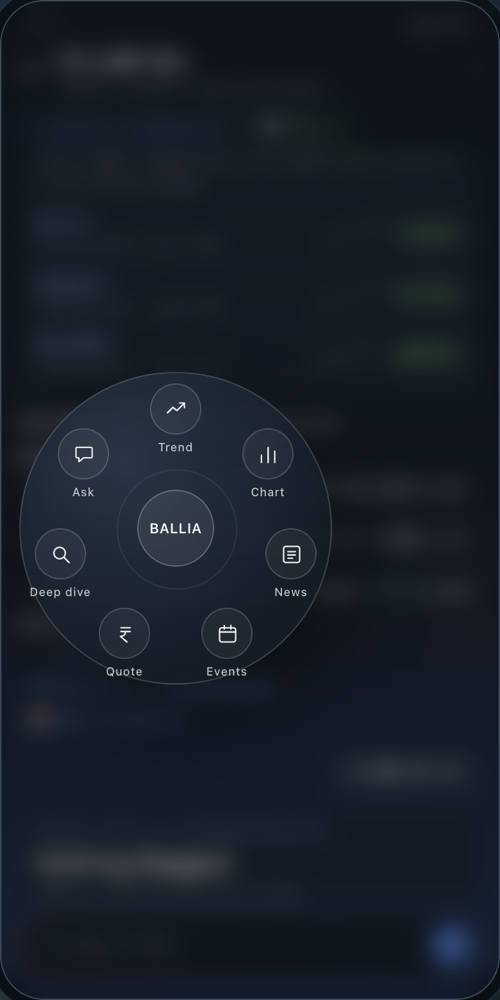
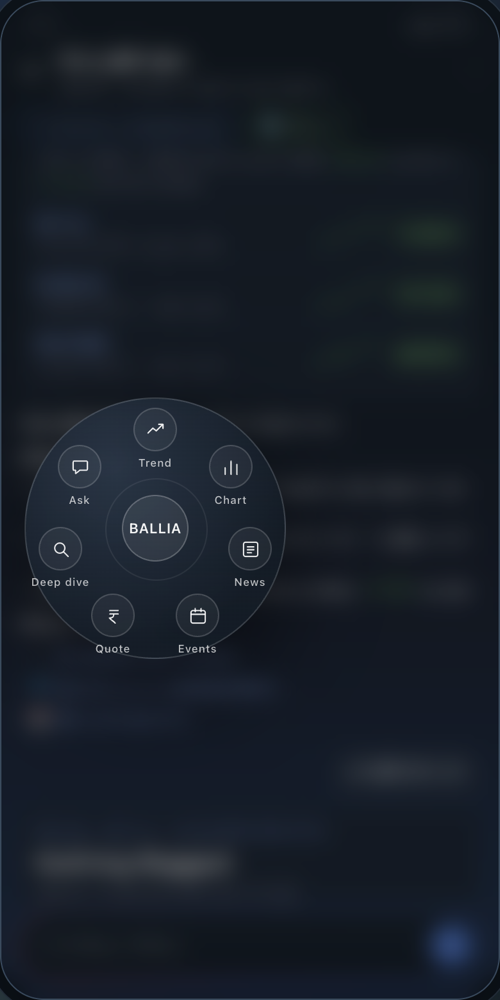
Khayali Pulao 0.9.2 — the ticker wheel in every reply, compact design
- Tickers.wire runs over every card as it's added, so calendar, IPO, holdings, web and terminal
  cards all open the wheel; chart labels too, via a refused kp://ticker/ navigation (no JS bridge)
- Labels must be a stock the phone knows; heading words never trigger it (tested)
- More compact wheel; website replay and screenshot match

diff --git a/app/src/main/kotlin/com/khayali/pulao/ai/TickerWheel.kt b/app/src/main/kotlin/com/khayali/pulao/ai/TickerWheel.kt
@@ -33,7 +33,7 @@ class TickerWheel(
     touchX: Float, touchY: Float, private val onPick: (String) -> Unit, private val onClose: () -> Unit,
 ) : FrameLayout(ctx) {
 
-    private val radius = k.dpf(104)
+    private val radius = k.dpf(86)
     private var cx = touchX; private var cy = touchY
     private val white = 0xFFFFFFFF.toInt()
 
@@ -45,21 +45,21 @@ class TickerWheel(
             val r = width / 2f
             fill.shader = RadialGradient(r * 0.7f, r * 0.55f, r * 1.4f, intArrayOf(Pal.alpha(0xFF2A3647.toInt(), 0.92f), Pal.alpha(0xFF141C26.toInt(), 0.94f)), null, Shader.TileMode.CLAMP)
             c.drawCircle(r, r, r - k.dpf(1), fill); c.drawCircle(r, r, r - k.dpf(1), edge)
-            c.drawCircle(r, r, k.dpf(46), inner)
+            c.drawCircle(r, r, k.dpf(38), inner)
         }
     }
     private val centre = k.column().apply {
         gravity = Gravity.CENTER
         background = k.rounded(Pal.alpha(white, 0.08f), 999f, Pal.alpha(white, 0.22f))
-        addView(k.text(symbol, if (symbol.length > 8) 10.5f else 12f, Pal.alpha(white, 0.95f), 600).apply { gravity = Gravity.CENTER; maxLines = 1; letterSpacing = 0.02f })
+        addView(k.text(symbol, if (symbol.length > 8) 9.5f else 11f, Pal.alpha(white, 0.95f), 600).apply { gravity = Gravity.CENTER; maxLines = 1; letterSpacing = 0.02f })
         setOnClickListener { close() }
         contentDescription = "Close $symbol actions"
     }
     private val buttons = items.map { (icon, label, cmd) ->
         k.column().apply {
             gravity = Gravity.CENTER_HORIZONTAL
-            addView(LineIcon(ctx, icon, k).apply { background = k.rounded(Pal.alpha(white, 0.05f), 999f, Pal.alpha(white, 0.16f)) }, k.lp(k.dp(44), k.dp(44)))
-            addView(k.text(label, 10f, Pal.alpha(white, 0.72f), 500).apply { gravity = Gravity.CENTER; setPadding(0, k.dp(4), 0, 0); maxLines = 1; letterSpacing = 0.04f }, k.lp(k.dp(72), WRAP_CONTENT))
+            addView(LineIcon(ctx, icon, k).apply { background = k.rounded(Pal.alpha(white, 0.05f), 999f, Pal.alpha(white, 0.16f)) }, k.lp(k.dp(38), k.dp(38)))
+            addView(k.text(label, 9.5f, Pal.alpha(white, 0.7f), 500).apply { gravity = Gravity.CENTER; setPadding(0, k.dp(3), 0, 0); maxLines = 1; letterSpacing = 0.04f }, k.lp(k.dp(64), WRAP_CONTENT))
             background = k.press(null, 14f)
             contentDescription = "$label for $symbol"
             setOnClickListener { performHapticFeedback(HapticFeedbackConstants.CONTEXT_CLICK); close { onPick(cmd) } }
@@ -69,23 +69,23 @@ class TickerWheel(
     init {
         setBackgroundColor(Pal.alpha(0xFF000000.toInt(), 0.38f))
         isClickable = true; setOnClickListener { close() }
-        val d = (radius * 2 + k.dpf(76)).toInt()
+        val d = (radius * 2 + k.dpf(66)).toInt()
         addView(disc, LayoutParams(d, d))
-        addView(centre, LayoutParams(k.dp(62), k.dp(62)))
-        buttons.forEach { addView(it, LayoutParams(k.dp(72), WRAP_CONTENT)) }
+        addView(centre, LayoutParams(k.dp(54), k.dp(54)))
+        buttons.forEach { addView(it, LayoutParams(k.dp(64), WRAP_CONTENT)) }
         alpha = 0f
     }
 
     override fun onLayout(changed: Boolean, l: Int, t: Int, r: Int, b: Int) {
         super.onLayout(changed, l, t, r, b)
-        val m = radius + k.dpf(42)
+        val m = radius + k.dpf(36)
         cx = cx.coerceIn(m, (width - m).coerceAtLeast(m)); cy = cy.coerceIn(m + k.dpf(16), (height - m).coerceAtLeast(m + k.dpf(16)))
         fun place(v: View, x: Float, y: Float) = v.layout((x - v.measuredWidth / 2f).toInt(), (y - v.measuredHeight / 2f).toInt(), (x + v.measuredWidth / 2f).toInt(), (y + v.measuredHeight / 2f).toInt())
         place(disc, cx, cy); place(centre, cx, cy)
         buttons.forEachIndexed { i, v ->
             val a = Math.toRadians(-90.0 + i * 360.0 / buttons.size)
             // the icon (not the label) sits on the ring
-            val x = cx + radius * cos(a).toFloat(); val y = cy + radius * sin(a).toFloat() + (v.measuredHeight / 2f - k.dpf(22))
+            val x = cx + radius * cos(a).toFloat(); val y = cy + radius * sin(a).toFloat() + (v.measuredHeight / 2f - k.dpf(19))
             place(v, x, y)
         }
     }
@@ -125,7 +125,7 @@ class TickerWheel(
         }
         private val t = Paint(Paint.ANTI_ALIAS_FLAG).apply { color = Pal.alpha(0xFFFFFFFF.toInt(), 0.9f); textAlign = Paint.Align.CENTER; typeface = Typeface.create("sans-serif-light", Typeface.NORMAL) }
         override fun onDraw(c: Canvas) {
-            val s = k.dpf(18); val ox = (width - s) / 2f; val oy = (height - s) / 2f
+            val s = k.dpf(16); val ox = (width - s) / 2f; val oy = (height - s) / 2f
             fun x(f: Float) = ox + f * s
             fun y(f: Float) = oy + f * s
             val path = Path()

diff --git a/app/src/main/kotlin/com/khayali/pulao/ai/Tickers.kt b/app/src/main/kotlin/com/khayali/pulao/ai/Tickers.kt
@@ -24,6 +24,18 @@ object Tickers {
         "UK", "EU", "Q1", "Q2", "Q3", "Q4", "EBITDA", "NOT", "NIFTY", "SENSEX", "MCX", "STT", "LTCG", "STCG", "TDS", "GST", "PPF", "EPF", "NPS", "KYC", "API", "MCP",
         "SMA", "RSI", "MACD", "VWAP", "DMA", "OPM", "PEG", "TTM", "FY", "H1", "H2", "NA", "CEO", "CFO", "MD", "BANK", "AUTO", "PHARMA", "FMCG", "METAL", "REALTY", "MEDIA", "ENERGY")
 
+    /** All-caps words cards use as labels; never tickers. */
+    private val WORDS = setOf("TODAY", "TAKEAWAY", "PLAN", "SETUP", "TIMING", "PRIVACY", "STEPS", "WHY", "HOW", "NEW", "ALL", "OTHERS", "MARKET", "STOCK", "STOCKS",
+        "VOLATILITY", "RESULTS", "DIVIDEND", "BONUS", "SPLIT", "BUYBACK", "HOLIDAY", "AGM", "OPEN", "CLOSED", "UPCOMING", "LISTED", "LISTING", "BIDDING", "TOTAL",
+        "HOLDING", "HOLDINGS", "INVESTED", "CURRENT", "PNL", "DAY", "WEEK", "MONTH", "YEAR", "HIGH", "LOW", "LTP", "QTY", "AVG", "BUY", "SELL", "GAINERS", "LOSERS", "SECTORS", "SECTOR")
+
+    /** A label that is exactly a stock the phone knows (or, before anything is known, has a ticker's shape and isn't a heading word). */
+    fun isKnown(s: String): Boolean {
+        val t = s.trim().removePrefix("★").trim().removePrefix("@")
+        if (!SHAPE.matches(t) || t in STOP || t in WORDS) return false
+        return known.isEmpty() || t in known
+    }
+
     /** Does this field (a row title, a mover's symbol) name a stock? Structured fields need only the right shape. */
     fun isSymbol(s: String, structured: Boolean = true): Boolean {
         val t = s.trim().removePrefix("★").trim().removePrefix("@")
@@ -55,6 +67,29 @@ object Tickers {
     private fun span(sym: String) = object : ClickableSpan() {
         override fun onClick(widget: View) { onTap?.invoke(sym) }
         override fun updateDrawState(ds: TextPaint) { ds.color = com.khayali.pulao.Pal.BLUE; ds.isUnderlineText = false; ds.isFakeBoldText = true }
+    }
+
+    /**
+     * Wires every ticker in a finished card — whatever built it (calendar, IPOs, holdings, web results, terminal
+     * cards). A text that is just a symbol makes its row a tap target; tickers inside sentences become tap spans.
+     * Rows that already do something on tap keep it.
+     */
+    fun wire(root: View) {
+        fun clickableAncestor(v: View): Boolean { var p: android.view.ViewParent? = v.parent
+            while (p is View && p !== root.parent) { if (p.hasOnClickListeners()) return true; p = p.parent }; return false }
+        fun walk(v: View) {
+            if (v is android.view.ViewGroup) { for (i in 0 until v.childCount) walk(v.getChildAt(i)); return }
+            val tv = v as? android.widget.TextView ?: return
+            val text = tv.text?.toString()?.trim().orEmpty(); if (text.isEmpty()) return
+            if ((tv.text as? Spanned)?.getSpans(0, tv.text.length, ClickableSpan::class.java)?.isNotEmpty() == true) return
+            val bare = text.removePrefix("★").removePrefix("@").trim().substringBefore(' ').substringBefore('\n')
+            if (text.length <= 22 && isKnown(bare) && (text == bare || text.removePrefix("★").trim() == bare) && !tv.hasOnClickListeners() && !clickableAncestor(tv)) {
+                val row = (tv.parent as? View)?.takeIf { it !== root && !it.hasOnClickListeners() && (it.parent as? View)?.hasOnClickListeners() != true } ?: tv
+                attach(row, bare); return
+            }
+            if (!tv.hasOnClickListeners() && !clickableAncestor(tv)) apply(tv)
+        }
+        walk(root)
     }
 
     /** Makes a view open the symbol menu on tap and on long-press. */

diff --git a/docs/index.html b/docs/index.html
@@ -342,17 +342,17 @@
     .cd-sst { font-size: 11px; font-weight: 700; color: var(--dim); } .cd-sst.blue { color: #8fb0f7; } .cd-chk { color: var(--blue); }
     .cd-wheel { position: absolute; inset: 0; background: rgba(0,0,0,.38); -webkit-backdrop-filter: blur(9px); backdrop-filter: blur(9px); opacity: 0; pointer-events: none; transition: opacity .2s; z-index: 4; }
     .cd-wheel.on { opacity: 1; }
-    .cd-disc { position: absolute; width: 244px; height: 244px; margin: -122px 0 0 -122px; border-radius: 50%;
+    .cd-disc { position: absolute; width: 204px; height: 204px; margin: -102px 0 0 -102px; border-radius: 50%;
       background: radial-gradient(circle at 35% 28%, rgba(42,54,71,.92), rgba(20,28,38,.94) 70%); border: .75px solid rgba(255,255,255,.16);
       box-shadow: inset 0 0 0 76px transparent, 0 30px 70px rgba(0,0,0,.45); }
-    .cd-disc::after { content: ""; position: absolute; left: 50%; top: 50%; width: 92px; height: 92px; margin: -46px 0 0 -46px; border-radius: 50%; border: .75px solid rgba(255,255,255,.07); }
+    .cd-disc::after { content: ""; position: absolute; left: 50%; top: 50%; width: 78px; height: 78px; margin: -39px 0 0 -39px; border-radius: 50%; border: .75px solid rgba(255,255,255,.07); }
     .cd-wheel.on .cd-disc { animation: cddisc .26s cubic-bezier(.2,.8,.2,1) both; } @keyframes cddisc { from { transform: scale(.92); opacity: 0; } }
-    .cd-hub { position: absolute; width: 60px; height: 60px; margin: -30px 0 0 -30px; border-radius: 50%; background: rgba(255,255,255,.08); border: .75px solid rgba(255,255,255,.22);
+    .cd-hub { position: absolute; width: 52px; height: 52px; margin: -26px 0 0 -26px; border-radius: 50%; background: rgba(255,255,255,.08); border: .75px solid rgba(255,255,255,.22);
       display: grid; place-items: center; font-weight: 600; font-size: 11px; letter-spacing: .02em; color: rgba(255,255,255,.95); }
     .cd-wheel.on .cd-hub { animation: cdhub .24s .04s cubic-bezier(.2,.8,.2,1) both; } @keyframes cdhub { from { transform: scale(.85); opacity: 0; } }
-    .cd-spoke { position: absolute; width: 66px; margin: -21px 0 0 -33px; text-align: center; font-size: 9px; font-weight: 500; letter-spacing: .04em; color: rgba(255,255,255,.72); }
-    .cd-spoke b { display: grid; place-items: center; width: 40px; height: 40px; margin: 0 auto 3px; border-radius: 50%; background: rgba(255,255,255,.05); border: .75px solid rgba(255,255,255,.16); }
-    .cd-spoke svg { width: 17px; height: 17px; fill: none; stroke: rgba(255,255,255,.9); stroke-width: 1.6; stroke-linecap: round; stroke-linejoin: round; }
+    .cd-spoke { position: absolute; width: 60px; margin: -18px 0 0 -30px; text-align: center; font-size: 8.5px; font-weight: 500; letter-spacing: .04em; color: rgba(255,255,255,.72); }
+    .cd-spoke b { display: grid; place-items: center; width: 34px; height: 34px; margin: 0 auto 3px; border-radius: 50%; background: rgba(255,255,255,.05); border: .75px solid rgba(255,255,255,.16); }
+    .cd-spoke svg { width: 15px; height: 15px; fill: none; stroke: rgba(255,255,255,.9); stroke-width: 1.6; stroke-linecap: round; stroke-linejoin: round; }
     .cd-wheel.on .cd-spoke { animation: cdspoke .26s cubic-bezier(.2,.8,.2,1) both; }
     @keyframes cdspoke { from { transform: translate(var(--dx), var(--dy)) scale(.85); opacity: 0; } }
     .cd-foot { font-size: 11px; color: var(--dim); padding: 0 4px; } .cd-foot u { text-decoration: none; color: #8fb0f7; }

diff --git a/app/src/main/kotlin/com/khayali/pulao/ai/VizView.kt b/app/src/main/kotlin/com/khayali/pulao/ai/VizView.kt
@@ -35,7 +35,12 @@ class VizView(ctx: Context, type: String, data: Any, heightDp: Int) : WebView(ct
             override fun shouldInterceptRequest(view: WebView, req: WebResourceRequest): WebResourceResponse? =
                 if (req.url.toString().startsWith("file:///android_asset/viz/")) null
                 else WebResourceResponse("text/plain", "utf-8", null)          // refuse everything else
-            override fun shouldOverrideUrlLoading(view: WebView, req: WebResourceRequest) = true
+            override fun shouldOverrideUrlLoading(view: WebView, req: WebResourceRequest): Boolean {
+                // every navigation is refused; a tapped stock label in a chart asks for kp://ticker/SYMBOL — open its wheel
+                val u = req.url
+                if (u.scheme == "kp" && u.host == "ticker") u.lastPathSegment?.uppercase()?.takeIf { Tickers.isKnown(it) }?.let { sym -> view.post { Tickers.onTap?.invoke(sym) } }
+                return true
+            }
             override fun onPageFinished(view: WebView, url: String) { view.evaluateJavascript("render($spec)", null) }
         }
         loadUrl("file:///android_asset/viz/viz.html")

diff --git a/docs/chat.js b/docs/chat.js
@@ -235,7 +235,7 @@
           Quote: '<path d="M7 5h10M7 9h10M12 9c0 3-2 5-5 5h-.5l7 6"/>', "Deep dive": '<circle cx="10" cy="10" r="6"/><path d="M14.5 14.5l5.5 5.5"/>',
           Ask: '<path d="M4 4h15a1 1 0 0 1 1 1v9a1 1 0 0 1-1 1h-8l-5 4v-4H4a1 1 0 0 1-1-1V5a1 1 0 0 1 1-1z"/>' };
         var acts = ["Trend", "Chart", "News", "Events", "Quote", "Deep dive", "Ask"].map(function (n) { return ['<svg viewBox="0 0 23 23">' + I[n] + "</svg>", n]; });
-        var pr = phone.getBoundingClientRect(), tr = t.getBoundingClientRect(), R = 92;
+        var pr = phone.getBoundingClientRect(), tr = t.getBoundingClientRect(), R = 76;
         var cx = Math.min(Math.max(tr.left - pr.left + 30, R + 44), pr.width - R - 44), cy = Math.min(Math.max(tr.top - pr.top, R + 70), pr.height - R - 90);
         wheel.innerHTML = '<div class="cd-disc" style="left:' + cx + 'px;top:' + cy + 'px"></div><div class="cd-hub" style="left:' + cx + 'px;top:' + cy + 'px">BALLIA</div>' +
           acts.map(function (a, i) { var ang = (-90 + i * 360 / acts.length) * Math.PI / 180;

diff --git a/app/src/main/assets/viz/viz.html b/app/src/main/assets/viz/viz.html
@@ -22,6 +22,15 @@
 <div class="tip" id="tip"></div>
 <script src="d3.min.js"></script>
 <script>
+// A tap on a stock label in any chart opens that stock's wheel in the app (the app refuses the navigation and reads the symbol).
+document.addEventListener("click", function (e) {
+  var el = e.target; for (var i = 0; i < 3 && el; i++, el = el.parentNode) {
+    var t = (el.textContent || "").trim().replace(/^[★@]\s*/, "");
+    if (el.children && el.children.length > 2) break;
+    if (/^[A-Z][A-Z0-9&\-]{1,14}$/.test(t)) { location.href = "kp://ticker/" + encodeURIComponent(t); e.preventDefault(); return; }
+  }
+}, true);
+
 "use strict";
 // Everything here runs locally inside the app. No network: the WebView blocks all loads.
 const C = { text:"#fff", muted:"#9B9BAD", dim:"#6E7883", line:"#324050", blue:"#5282EB", green:"#67AD5B", red:"#CF5B52", saffron:"#FFB547", violet:"#8E7CF0", pink:"#FF6FA5" };

diff --git a/app/src/test/kotlin/com/khayali/pulao/ActionsTest.kt b/app/src/test/kotlin/com/khayali/pulao/ActionsTest.kt
@@ -36,7 +36,11 @@ class ActionsTest {
         assertFalse(Tickers.isSymbol("NSE")); assertTrue(Tickers.isSymbol("★ INFY")); assertFalse(Tickers.isSymbol("Low pe stocks"))
         val menu = Tickers.menu("INFY", web = false, market = true).map { it.second }
         assertTrue(menu.containsAll(listOf("/health INFY", "/chart INFY 1y", "/news INFY", "what's happening with INFY")))
+        // labels that are exactly a known stock open the wheel; heading words never do
+        assertTrue(Tickers.isKnown("INFY") && Tickers.isKnown("★ FIRSTCRY"))
+        assertFalse(Tickers.isKnown("TODAY") || Tickers.isKnown("TAKEAWAY") || Tickers.isKnown("HDFC") || Tickers.isKnown("NIFTY"))
         Tickers.known = emptySet()
+        assertTrue(Tickers.isKnown("ZEEL")); assertFalse(Tickers.isKnown("TIMING"))
     }
 
     @Test fun actionLinksParse() {

diff --git a/app/src/main/kotlin/com/khayali/pulao/ai/ChatView.kt b/app/src/main/kotlin/com/khayali/pulao/ai/ChatView.kt
@@ -1673,6 +1673,7 @@ class ChatView(
             ResultCards.build(context, k, e.name, e.resultJson, ::openUrl)?.let { card ->
                 cards.removeAllViews()          // newest result replaces older ones in this turn
                 cards.addView(card, k.lp(MATCH_PARENT).apply { topMargin = k.dp(10) })
+                Tickers.wire(card)              // every ticker in any card opens the wheel
             }
         }
 

diff --git a/CHANGELOG.md b/CHANGELOG.md
@@ -1,5 +1,10 @@
 # Changelog
 
+## 0.9.2
+
+- **Every ticker opens the wheel, in any reply** — calendar, IPOs, holdings, web results and every terminal card, plus stock labels inside charts. Cards are wired as they appear, so new cards get it automatically; a label must be a stock the phone knows, so headings never trigger it.
+- **A more compact wheel** — a smaller ring, tighter icons and labels, the same quiet style everywhere (the website replay matches).
+
 ## 0.9.1
 
 - **One-tap setup** — `/setup` (also the first starter in an empty chat, and ⋮ → Setup): pick the AI model, three years of market history, the knowledge bank, web lookups and Kite, then **Set up everything** starts it all at once. One life cycle — not started → running → needs you → done (or failed, with retry) — and each step's status is read from the real download states, so it picks up where it was after a restart.
